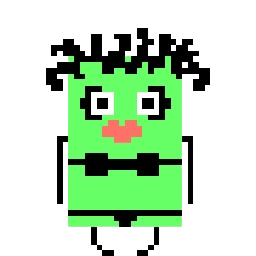
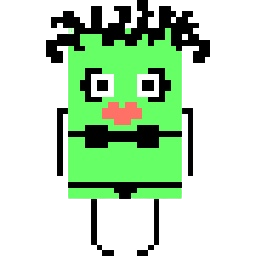
add censored version

diff --git a/src/index.ts b/src/index.ts
@@ -213,6 +213,7 @@ class Person {
 }
 
 class Player extends Person {
+  isSpeaking = false;
   constructor() {
     super(1, PLAYER_COLOR);
   }
@@ -227,24 +228,49 @@ class Player extends Person {
         this.width + 60,
         this.height + 60
       );
+      if (this.isSpeaking) {
+        this.playText();
+      }
     } else {
       ctx.fillStyle = this.color;
       ctx.fillRect(this.xCoord, this.yCoord, this.width, this.height);
       this.addTextName();
     }
   }
+  playText() {
+    console.log("YEAP!");
+    ctx.font = "14px Joustix";
+    ctx.fillStyle = PLAYER_COLOR;
+    ctx.fillText(speakingPhrase, this.xCoord + 80, this.yCoord - 70);
+  }
+  speaking(speakingParamFull: string) {
+    this.isSpeaking = true;
+    const speakingPhraseArr = speakingParamFull.split("");
+
+    const speakingTimer = setInterval(function () {
+      speakingPhrase += speakingPhraseArr[speakingPhraseIndex];
+      speakingPhraseIndex++;
+      if (speakingPhraseIndex >= speakingPhraseArr.length) {
+        clearInterval(speakingTimer);
+        speakingPhraseIndex = 0;
+      }
+    }, 100);
+  }
 }
 
 class Seller extends Person {
   isSpeaking = false;
   speakingPhrase = "";
+  isCensor = true;
   constructor() {
     super(2, SELLER_COLOR);
   }
   draw() {
     if (isRealisticMode) {
       const seller_image = new Image();
-      seller_image.src = `assets/images/sellerBest_${this.sellerFrame}.png`;
+      seller_image.src = `assets/images/seller${this.isCensor ? "" : "Best"}_${
+        this.sellerFrame
+      }.png`;
       ctx.drawImage(
         seller_image,
         this.xCoord,
@@ -302,6 +328,9 @@ document.addEventListener("keypress", (e: KeyboardEvent) => {
   if (e.code === "KeyJ") {
     isDrawHeart = false;
   }
+  if (e.code === "KeyX") {
+    seller.isCensor = !seller.isCensor;
+  }
   if (e.code === "KeyZ") {
     isRealisticMode = true;
     BG_COLOR = "#807e7e";
@@ -324,17 +353,33 @@ document.addEventListener("keypress", (e: KeyboardEvent) => {
     }, 2500);
   }
   if (e.code === "Digit1") {
+    speakingPhrase = "";
+    player.isSpeaking = false;
     seller.speaking("Привет,странник!");
   }
   if (e.code === "Digit2") {
     speakingPhrase = "";
+    player.isSpeaking = false;
     seller.speaking("Давно не виделись");
   }
   if (e.code === "Digit3") {
     speakingPhrase = "";
+    player.isSpeaking = false;
     seller.speaking("Что привело тебя ко мне?");
+  }
+  if (e.code === "Digit4") {
+    speakingPhrase = "";
+    seller.isSpeaking = false;
+    player.speaking("Развлечься бы");
+  }
+  if (e.code === "Digit5") {
+    speakingPhrase = "";
+    player.isSpeaking = false;
+    seller.speaking("...");
   }
   if (e.code === "Digit0") {
     speakingPhrase = "";
+    seller.isSpeaking = false;
+    player.isSpeaking = false;
   }
 });
